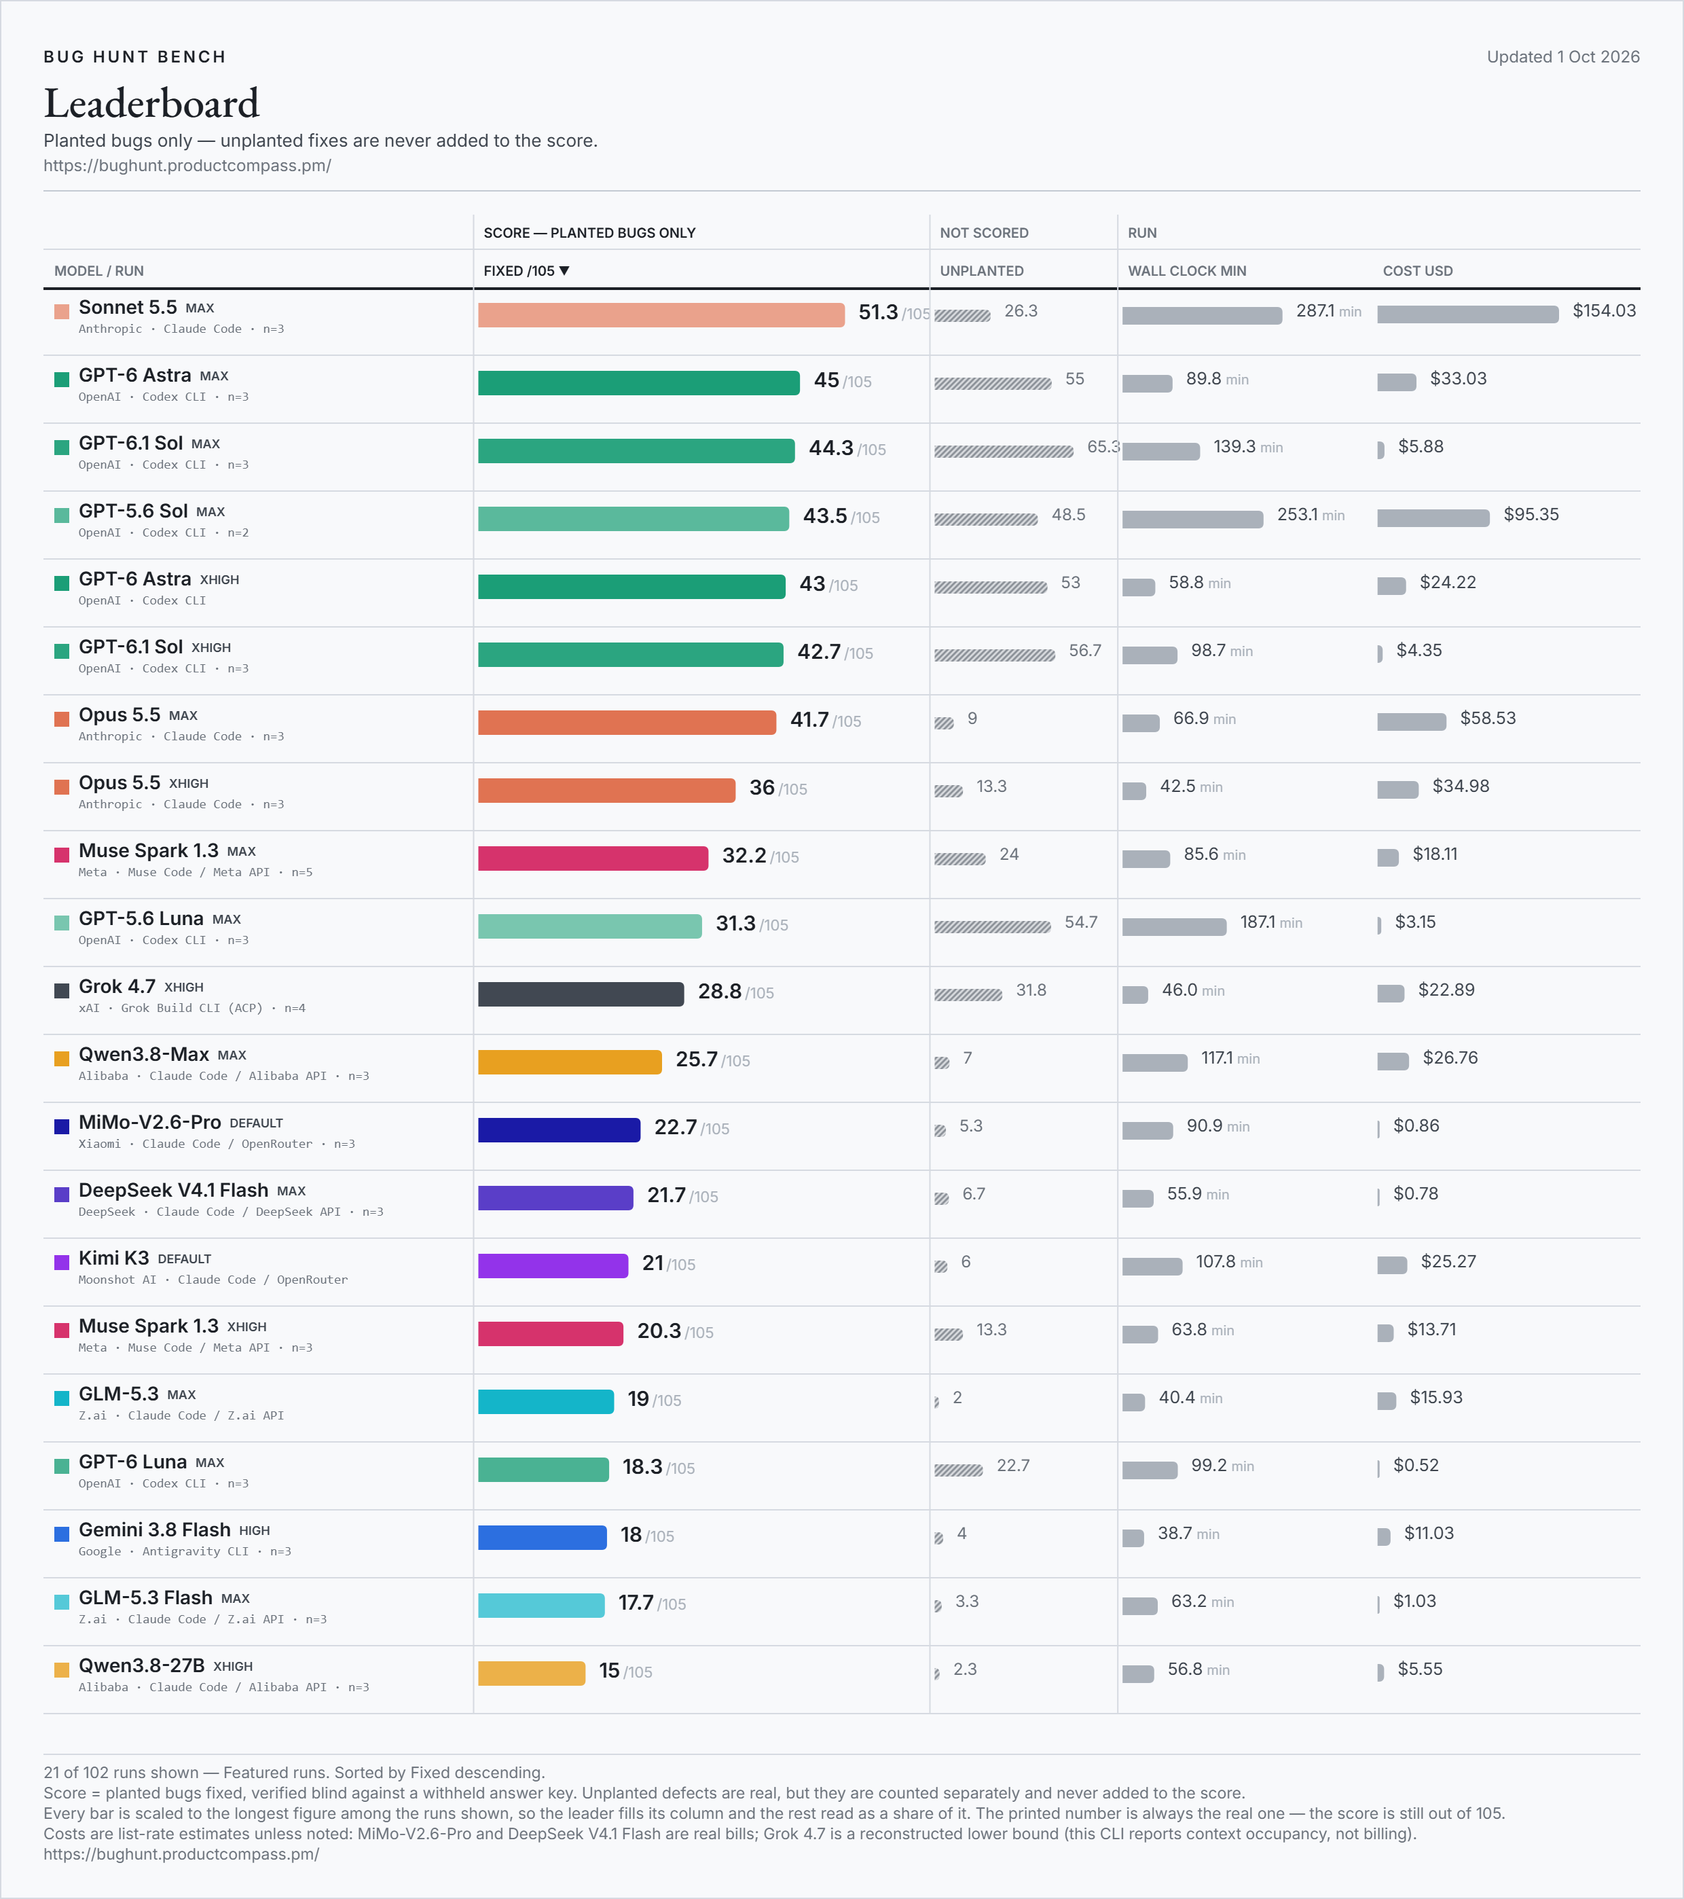
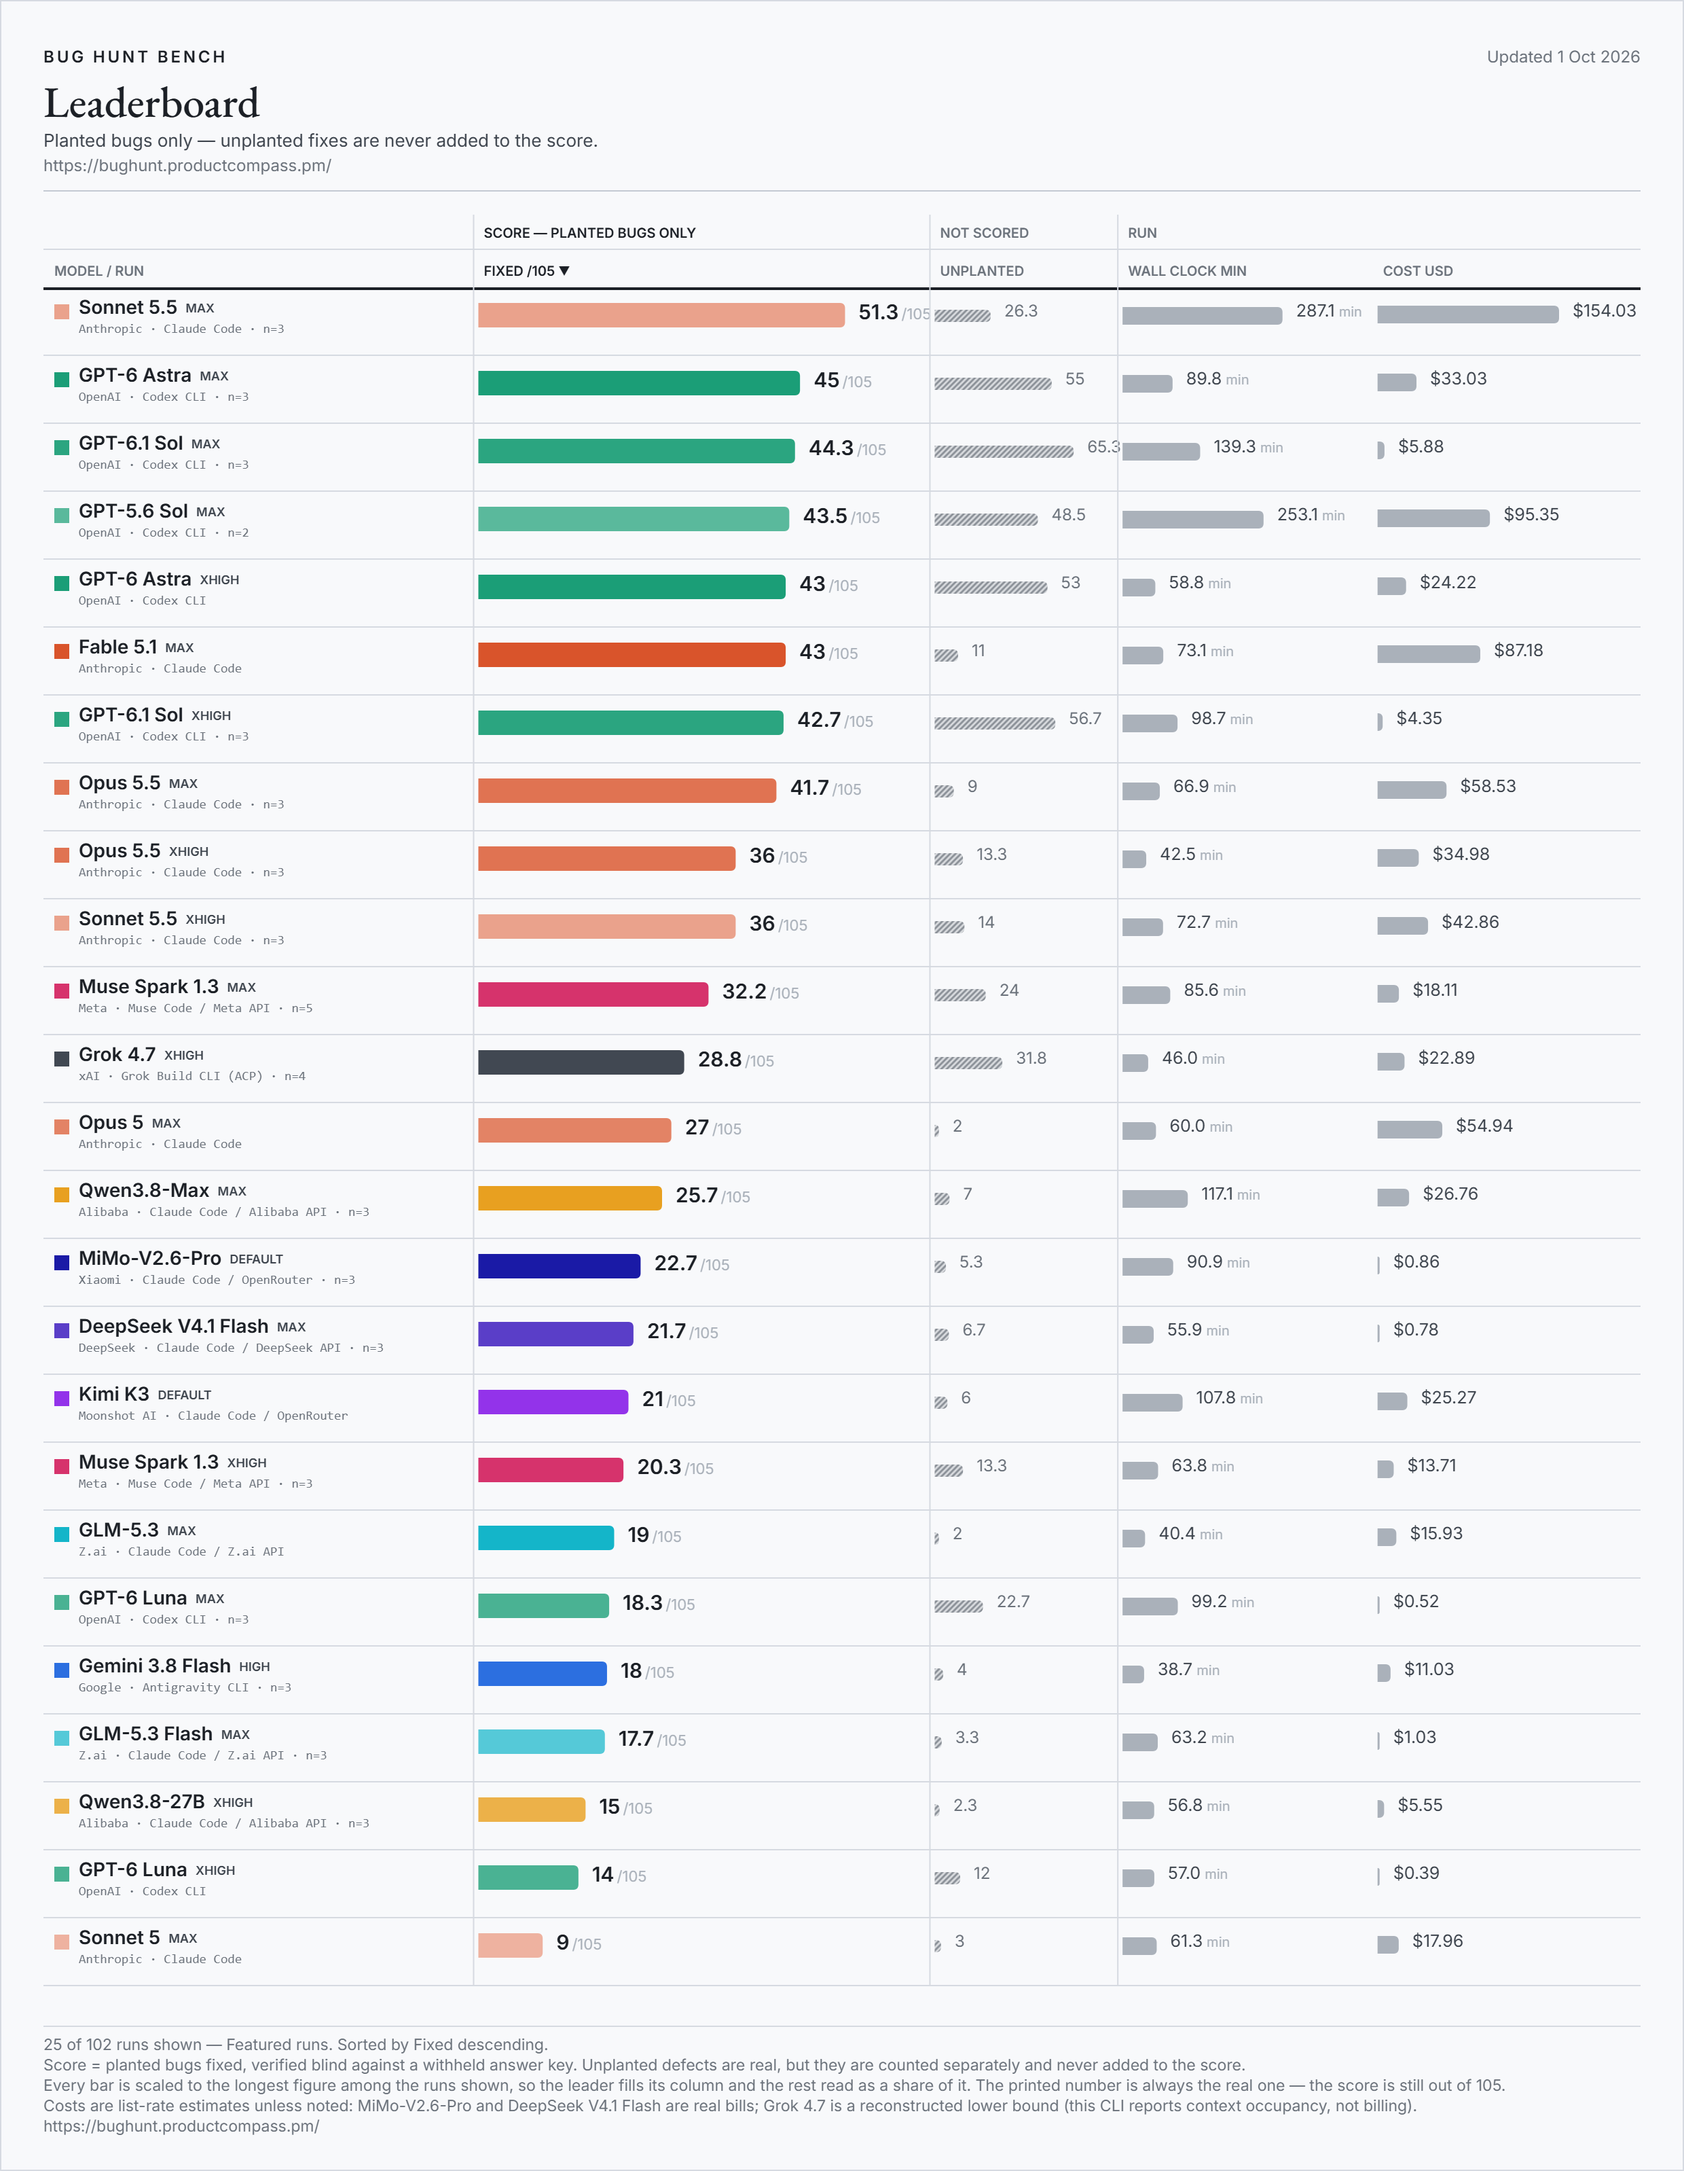
site: featured view re-cut (Fable 5.1, Opus 5, Sonnet 5 max; Sonnet 5.5 xhigh; GPT-6 Luna xhigh in; GPT-5.6 Luna out)

Changed region(s): [[0.031, 0.0, 0.9625, 0.9024], [0.031, 0.9335, 0.9004, 0.9957], [0.5589, 0.8401, 0.5899, 0.8712]]

diff --git a/index.html b/index.html
@@ -22,14 +22,14 @@
 <meta property="og:title" content="Bug Hunt Bench — frontier coding models against real planted bugs">
 <meta property="og:description" content="A blind-graded benchmark of frontier coding models on real bugs planted in two production codebases. The score counts planted bugs only; extra fixes are tracked separately and never added.">
 <meta property="og:url" content="https://bughunt.productcompass.pm/">
-<meta property="og:image" content="https://bughunt.productcompass.pm/og-image.png?v=2026-10-01-2f87ba4c">
+<meta property="og:image" content="https://bughunt.productcompass.pm/og-image.png?v=2026-10-01-7102fe7a">
 <meta property="og:image:width" content="1200">
 <meta property="og:image:height" content="630">
 <meta property="og:image:alt" content="Bug Hunt Bench leaderboard">
 <meta name="twitter:card" content="summary_large_image">
 <meta name="twitter:title" content="Bug Hunt Bench — frontier coding models against real planted bugs">
 <meta name="twitter:description" content="A blind-graded benchmark of frontier coding models on real bugs planted in two production codebases. The score counts planted bugs only.">
-<meta name="twitter:image" content="https://bughunt.productcompass.pm/og-image.png?v=2026-10-01-2f87ba4c">
+<meta name="twitter:image" content="https://bughunt.productcompass.pm/og-image.png?v=2026-10-01-7102fe7a">
 <meta name="twitter:creator" content="@PawelHuryn">
 
 <link rel="icon" href="/assets/favicon.svg" type="image/svg+xml">

diff --git a/method.html b/method.html
@@ -20,14 +20,14 @@
 <meta property="og:title" content="Method, caveats and definitions — Bug Hunt Bench">
 <meta property="og:description" content="How Bug Hunt Bench is run and graded, what the board cannot tell you, and what every column on it means.">
 <meta property="og:url" content="https://bughunt.productcompass.pm/method">
-<meta property="og:image" content="https://bughunt.productcompass.pm/og-image.png?v=2026-10-01-2f87ba4c">
+<meta property="og:image" content="https://bughunt.productcompass.pm/og-image.png?v=2026-10-01-7102fe7a">
 <meta property="og:image:width" content="1200">
 <meta property="og:image:height" content="630">
 <meta property="og:image:alt" content="Bug Hunt Bench leaderboard">
 <meta name="twitter:card" content="summary_large_image">
 <meta name="twitter:title" content="Method, caveats and definitions — Bug Hunt Bench">
 <meta name="twitter:description" content="How Bug Hunt Bench is run and graded, what the board cannot tell you, and what every column on it means.">
-<meta name="twitter:image" content="https://bughunt.productcompass.pm/og-image.png?v=2026-10-01-2f87ba4c">
+<meta name="twitter:image" content="https://bughunt.productcompass.pm/og-image.png?v=2026-10-01-7102fe7a">
 <meta name="twitter:creator" content="@PawelHuryn">
 
 <link rel="icon" href="/assets/favicon.svg" type="image/svg+xml">

diff --git a/README.md b/README.md
@@ -7,7 +7,7 @@
 If the numbers save you a benchmark run of your own, **star this repo** — that is what keeps the bench findable, and new models are added as they ship.
 
 <!-- leaderboard:start -->
-![Bug Hunt Bench leaderboard, the featured runs, updated Oct 1, 2026](assets/leaderboard.png?v=2026-10-01-72e088ce)
+![Bug Hunt Bench leaderboard, the featured runs, updated Oct 1, 2026](assets/leaderboard.png?v=2026-10-01-1649380d)
 
 **Updated Oct 1, 2026 · 164 rows from 195 scored runs · 40 models · 29 of 105 bugs have never been fixed by any model.**
 
